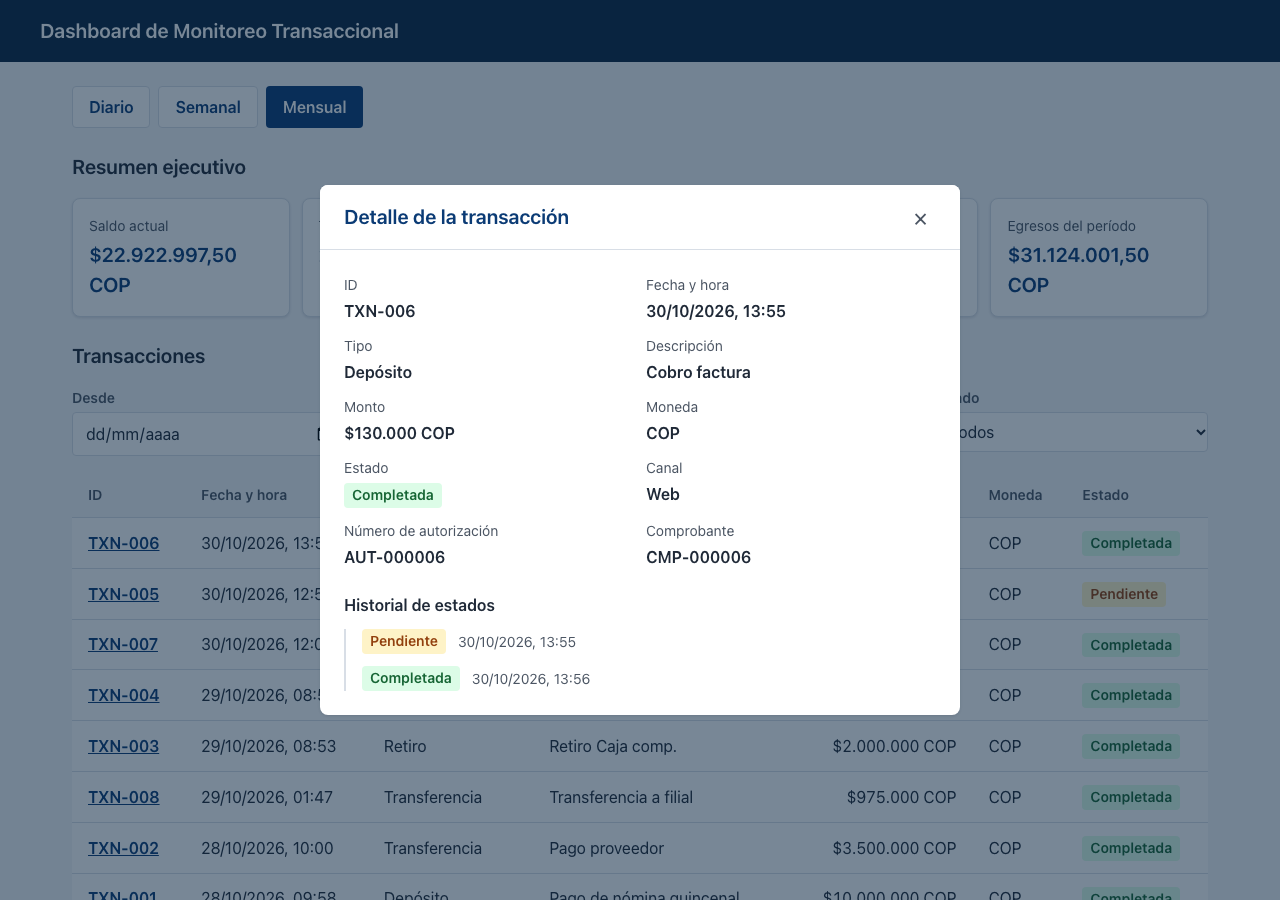
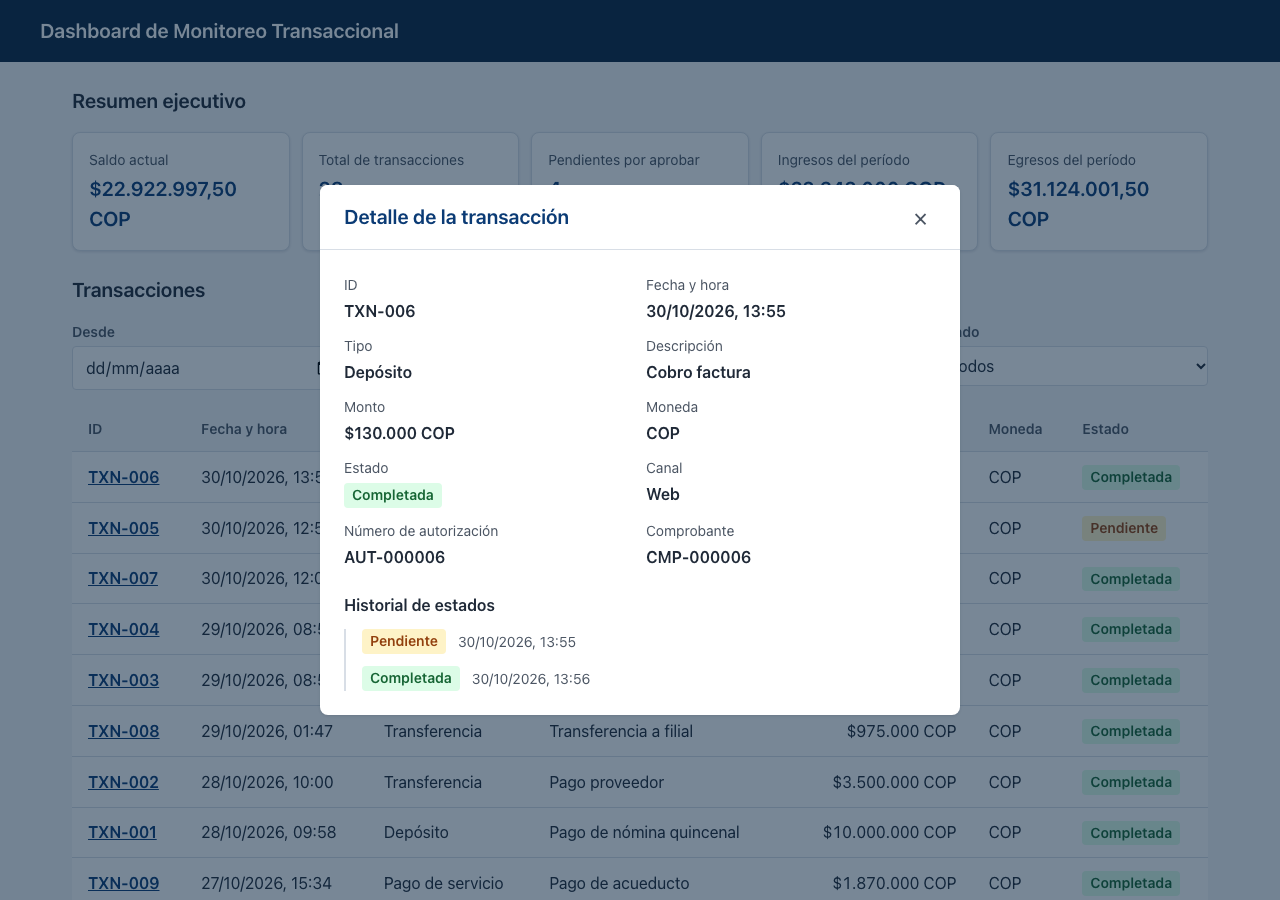
period selector deleted

diff --git a/src/pages/DashboardPage/DashboardPage.test.tsx b/src/pages/DashboardPage/DashboardPage.test.tsx
@@ -8,7 +8,7 @@ import { ERROR_MESSAGES } from '../../shared/errors.ts'
 import { renderWithProviders } from '../../test/renderWithProviders.tsx'
 import type { TransactionDto, TransactionListResponseDto } from '../../types/api.ts'
 
-// Con NOW fijo, el mes tiene 23 transacciones (2 páginas), la semana 9 y el día 3.
+// Con NOW fijo, el mes tiene 23 transacciones (2 páginas).
 const NOW = new Date('2026-07-23T14:00:00-05:00')
 
 const transactionsRegion = () => screen.getByRole('region', { name: 'Transacciones' })
@@ -39,7 +39,6 @@ describe('DashboardPage (integración)', () => {
     renderWithProviders('/')
 
     // Assert
-    expect(screen.getByRole('button', { name: 'Mensual' })).toHaveAttribute('aria-pressed', 'true')
     expect(await screen.findByText('Saldo actual')).toBeInTheDocument()
     await waitForRows(20)
     expect(screen.getByRole('navigation', { name: 'Paginación' })).toBeInTheDocument()
@@ -68,19 +67,40 @@ describe('DashboardPage (integración)', () => {
     expect(router.state.location.search).toBe('?page=2')
   })
 
-  it('al cambiar el período recarga resumen y listado y vuelve a la primera página', async () => {
+  it('pide el resumen y el listado del período mensual', async () => {
     // Arrange
-    const { router, user } = renderWithProviders('/?page=2')
-    await waitForRows(3)
+    const requestedUrls: URL[] = []
+    const onRequest = ({ request }: { request: Request }) => {
+      requestedUrls.push(new URL(request.url))
+    }
+    server.events.on('request:start', onRequest)
 
     // Act
-    await user.click(screen.getByRole('button', { name: 'Semanal' }))
+    renderWithProviders('/')
+    await waitForRows(20)
+    server.events.removeListener('request:start', onRequest)
 
     // Assert
-    await waitForRows(9)
-    expect(router.state.location.search).toBe('')
-    expect(screen.getByRole('button', { name: 'Semanal' })).toHaveAttribute('aria-pressed', 'true')
-    expect(screen.queryByRole('navigation', { name: 'Paginación' })).not.toBeInTheDocument()
+    const periodsByPath = requestedUrls.map((url) => [url.pathname, url.searchParams.get('period')])
+    expect(periodsByPath).toEqual(
+      expect.arrayContaining([
+        ['/api/v1/dashboard/summary', 'monthly'],
+        ['/api/v1/dashboard/transaction/list', 'monthly'],
+      ]),
+    )
+    expect(periodsByPath.every(([, period]) => period === 'monthly')).toBe(true)
+  })
+
+  it('no muestra un selector de período', async () => {
+    // Arrange / Act
+    renderWithProviders('/')
+    await waitForRows(20)
+
+    // Assert
+    expect(screen.queryByRole('group', { name: 'Período' })).not.toBeInTheDocument()
+    for (const name of ['Diario', 'Semanal', 'Mensual']) {
+      expect(screen.queryByRole('button', { name })).not.toBeInTheDocument()
+    }
   })
 
   it('combina los filtros (AND) y vuelve a la primera página', async () => {
@@ -137,9 +157,8 @@ describe('DashboardPage (integración)', () => {
     await waitForRows(20)
 
     // Act
-    await user.click(screen.getByRole('button', { name: 'Diario' }))
-    await waitForRows(3)
     await user.selectOptions(screen.getByRole('combobox', { name: 'Tipo' }), 'Retiro')
+    await user.selectOptions(screen.getByRole('combobox', { name: 'Estado' }), 'Devuelta')
 
     // Assert
     expect(await screen.findByText('Ninguna transacción coincide con los filtros')).toBeInTheDocument()
@@ -196,7 +215,7 @@ describe('DashboardPage (integración)', () => {
     expect(screen.getByRole('region', { name: 'Resumen ejecutivo' })).toBeInTheDocument()
   })
 
-  describe('con resultados de varias páginas en cualquier período', () => {
+  describe('con resultados de varias páginas', () => {
     const manyTransactions: TransactionDto[] = Array.from({ length: 45 }, (_, index) => ({
       id: `TXN-${String(index + 100)}`,
       dateTime: new Date(NOW.getTime() - (index + 1) * 60_000).toISOString(),
@@ -213,19 +232,6 @@ describe('DashboardPage (integración)', () => {
           HttpResponse.json<TransactionListResponseDto>({ previousBalance: 0, items: manyTransactions }),
         ),
       )
-    })
-
-    it('cambiar el período reinicia la página aunque la página actual siga existiendo', async () => {
-      // Arrange
-      const { router, user } = renderWithProviders('/?page=2')
-      await waitFor(() => expect(rowIds()[0]).toBe('TXN-120'))
-
-      // Act
-      await user.click(screen.getByRole('button', { name: 'Semanal' }))
-
-      // Assert
-      await waitFor(() => expect(router.state.location.search).toBe(''))
-      await waitFor(() => expect(rowIds()[0]).toBe('TXN-100'))
     })
 
     it('cambiar un filtro reinicia la página aunque la página actual siga existiendo', async () => {

diff --git a/src/pages/DashboardPage/DashboardPage.tsx b/src/pages/DashboardPage/DashboardPage.tsx
@@ -3,7 +3,6 @@ import { Outlet } from 'react-router'
 import { ErrorState } from '../../components/ErrorState/ErrorState.tsx'
 import { LoadingState } from '../../components/LoadingState/LoadingState.tsx'
 import { Pagination } from '../../components/Pagination/Pagination.tsx'
-import { PeriodSelector } from '../../features/summary/components/PeriodSelector/PeriodSelector.tsx'
 import { SummaryPanel } from '../../features/summary/components/SummaryPanel/SummaryPanel.tsx'
 import { TransactionFilters } from '../../features/transactions/components/TransactionFilters/TransactionFilters.tsx'
 import { TransactionTable } from '../../features/transactions/components/TransactionTable/TransactionTable.tsx'
@@ -13,13 +12,12 @@ import { usePageParam } from '../../hooks/usePageParam.ts'
 import type { Period, TransactionFilters as Filters } from '../../types/domain.ts'
 import styles from './DashboardPage.module.scss'
 
-const DEFAULT_PERIOD: Period = 'monthly'
+const PERIOD: Period = 'monthly'
 
 export const DashboardPage = () => {
-  const [period, setPeriod] = useState<Period>(DEFAULT_PERIOD)
   const [filters, setFilters] = useState<Filters>({})
   const { page, setPage } = usePageParam()
-  const { data, status, error, retry } = useTransactions(period)
+  const { data, status, error, retry } = useTransactions(PERIOD)
   const { items, currentPage, totalPages, emptyReason } = useVisibleTransactions(filters, page)
   const listTitleId = useId()
 
@@ -27,11 +25,6 @@ export const DashboardPage = () => {
   useEffect(() => {
     if (status === 'succeeded' && currentPage !== page) setPage(currentPage, { replace: true })
   }, [status, currentPage, page, setPage])
-
-  const changePeriod = (nextPeriod: Period) => {
-    setPeriod(nextPeriod)
-    setPage(1)
-  }
 
   const changeFilters = (nextFilters: Filters) => {
     setFilters(nextFilters)
@@ -52,9 +45,7 @@ export const DashboardPage = () => {
 
   return (
     <div className={styles.dashboard}>
-      <PeriodSelector value={period} onChange={changePeriod} />
-
-      <SummaryPanel period={period} />
+      <SummaryPanel period={PERIOD} />
 
       <section className={styles['dashboard__transactions']} aria-labelledby={listTitleId}>
         <h2 id={listTitleId} className={styles['dashboard__title']}>

diff --git a/src/shared/labels.ts b/src/shared/labels.ts
@@ -1,9 +1,4 @@
-import type {
-  Channel,
-  Period,
-  TransactionStatus,
-  TransactionType,
-} from '../types/domain.ts'
+import type { Channel, TransactionStatus, TransactionType } from '../types/domain.ts'
 
 // DP-7: la API usa códigos en inglés; la UI los muestra en español.
 
@@ -26,10 +21,4 @@ export const CHANNEL_LABELS: Record<Channel, string> = {
   WEB: 'Web',
   POINT_OF_SALE: 'Punto de Venta',
   BANK_TRANSFER: 'Transferencia bancaria',
-}
-
-export const PERIOD_LABELS: Record<Period, string> = {
-  daily: 'Diario',
-  weekly: 'Semanal',
-  monthly: 'Mensual',
 }

diff --git a/README.md b/README.md
@@ -4,7 +4,7 @@ Aplicación web para que los clientes empresariales de una plataforma de banca e
 analicen sus movimientos financieros**: resumen ejecutivo del período, listado de transacciones con
 filtros y paginación, y detalle completo de cada transacción con su historial de estados.
 
-Construida con **React 19 + TypeScript estricto**, estado global con **Context API + Reducers**, consumo
+Construida con **React 19 + TypeScript**, estado global con **Context API + Reducers**, consumo
 de API REST con **Axios** y una API simulada con **MSW**, por lo que se ejecuta **sin ningún backend ni
 dependencia externa**.
 
@@ -42,7 +42,7 @@ dependencia externa**.
 
 | Requerimiento | Descripción |
 |---|---|
-| **RF-01 · Resumen ejecutivo** | Saldo actual, total de transacciones, pendientes por aprobar, ingresos y egresos del período. Período seleccionable: **Diario / Semanal / Mensual** |
+| **RF-01 · Resumen ejecutivo** | Saldo actual, total de transacciones, pendientes por aprobar, ingresos y egresos del período. Período fijo: **mensual** (sin selector) |
 | **RF-02 · Listado con filtros** | Tabla con ID, fecha y hora, tipo, descripción, monto, moneda y estado. Filtros combinables (AND) por **rango de fechas**, **tipo** y **estado**. Paginación de **20 registros** por página |
 | **RF-03 · Detalle de transacción** | Modal con todos los campos, canal, número de autorización, comprobante e **historial de cambios de estado** |
 
@@ -170,9 +170,9 @@ VITE_USE_MOCKS=false VITE_API_BASE_URL=https://api.ejemplo.com/v1 yarn dev
 
 | Métrica | Valor |
 |---|---|
-| Archivos de prueba | **41** |
-| Pruebas | **314** |
-| Cobertura total | 98,1 % líneas · 95,3 % sentencias · 90,9 % ramas · 98,8 % funciones |
+| Archivos de prueba | **40** |
+| Pruebas | **311** |
+| Cobertura total | 98,1 % líneas · 94,7 % sentencias · 89,6 % ramas · 98,8 % funciones |
 | Cobertura con umbral (≥ 80 %) | `domain/` 100 % · `utils/` 100 % · `services/` 100 % líneas |
 
 ### Cómo ejecutar las pruebas
@@ -311,7 +311,7 @@ src/
 │   └── NotFoundPage/        # 404
 ├── features/
 │   ├── summary/             # RF-01
-│   │   ├── components/      # PeriodSelector, SummaryCard, SummaryPanel
+│   │   ├── components/      # SummaryCard, SummaryPanel
 │   │   └── hooks/           # useSummary
 │   └── transactions/        # RF-02 y RF-03
 │       ├── components/      # TransactionTable, TransactionFilters, TransactionDetailModal,
@@ -359,7 +359,6 @@ docs/
 
 | Componente | Feature | Responsabilidad |
 |---|---|---|
-| `PeriodSelector` | summary | Diario / Semanal / Mensual con `aria-pressed` |
 | `SummaryCard` | summary | Una métrica (`<dt>` / `<dd>`) |
 | `SummaryPanel` | summary | Las 5 métricas de RF-01, tal como llegan del backend, formateadas |
 | `TransactionFilters` | transactions | Desde / Hasta / Tipo / Estado; avisa si el rango está invertido |
@@ -375,7 +374,7 @@ docs/
 | `AppLayout` | Encabezado y área principal |
 | `AppErrorBoundary` / `UnexpectedError` | Captura errores de render (fuera y dentro de las rutas) |
 | `AppProviders` | `TransactionsProvider` |
-| `DashboardPage` | Compone período, resumen, filtros, listado, paginación y el modal (`<Outlet/>`) |
+| `DashboardPage` | Usa el período fijo mensual y compone resumen, filtros, listado, paginación y el modal (`<Outlet/>`) |
 | `TransactionDetailRoute` | Ruta hija: lee `:transactionId` y cierra volviendo atrás o al dashboard conservando `?page` |
 | `NotFoundPage` | Página 404 con enlace al dashboard |
 
@@ -388,12 +387,12 @@ docs/
 | **Global** (transacciones del período) | Context API + `useReducer`, contextos de **estado** y **dispatch** separados | `TransactionsContext` |
 | Resumen y detalle (una sola vista) | `useReducer` local dentro de su hook (DP-15) | `useSummary`, `useTransactionDetail` |
 | Paginación | Query param `?page` | `usePageParam` |
-| Período y filtros | `useState` en la página / formulario | `DashboardPage`, `TransactionFilters` |
+| Filtros | `useState` en la página / formulario | `DashboardPage`, `TransactionFilters` |
 | Modal de detalle | Ruta hija de React Router | `TransactionDetailRoute` |
 
 | Hook | Rol |
 |---|---|
-| `useTransactions(period)` | Carga el listado en el contexto global; cancela la petición anterior al cambiar el período; `retry()` |
+| `useTransactions(period)` | Carga el listado en el contexto global; cancela la petición anterior si cambia el período o se desmonta; `retry()` |
 | `useTransactionsState()` / `useTransactionsDispatch()` | Leen el contexto; error descriptivo si se usan fuera del Provider |
 | `useVisibleTransactions(filters, page)` | **Selector**: filtra (RN-03) → pagina, devuelve la página ajustada y el motivo de lista vacía |
 | `useSummary(period)` | Carga el resumen en estado local, con cancelación y `retry()` |
@@ -417,9 +416,9 @@ El proyecto usa **React Compiler**, por lo que no hay `useMemo`/`useCallback` ma
 *                               → NotFoundPage
 ```
 
-- **Solo `page` va en la URL** (DP-2); período y filtros son estado local de UI, como indica el SPEC.
+- **Solo `page` va en la URL** (DP-2); los filtros son estado local de UI, como indica el SPEC.
 - `?page=abc`, `0`, `-2`, `1.5` → página 1. La página 1 no se escribe (`/` en vez de `/?page=1`).
-- Cambiar el período o un filtro **reinicia** la paginación.
+- Cambiar un filtro **reinicia** la paginación.
 - Una página fuera de rango (`?page=99`) se **ajusta** a la última con `replace` (sin ensuciar el
   historial), solo después de cargar los datos.
 - El detalle conserva `?page` al abrir y cerrar. Si se llegó desde el listado, cerrar vuelve atrás en el
@@ -575,8 +574,8 @@ y `public/mockServiceWorker.js` (generado con `npx msw init public`).
 
 **Accesibilidad**
 
-- Roles y nombres accesibles: `dialog`, `alert`, `status`, `navigation`, `region`, `group`.
-- `aria-pressed` en el selector de período, `aria-current` en la paginación, `aria-invalid` y
+- Roles y nombres accesibles: `dialog`, `alert`, `status`, `navigation`, `region`.
+- `aria-current` en la paginación, `aria-invalid` y
   `aria-describedby` en el rango de fechas inválido, `aria-busy` durante la carga.
 - El estado se comunica con **texto además de color**.
 - Foco visible con teclado (`:focus-visible`), el modal mueve el foco al abrirse y lo devuelve al cerrarse.
@@ -632,7 +631,7 @@ librerías de fechas (`Intl` + `Date`), de validación (type guards propios), de
 |---|---|---|
 | Context + `useReducer` (sin Redux) | Cumple el SPEC, cero dependencias, reducers puros | Sin DevTools; se mitigan re-renders con contextos separados y React Compiler |
 | Resumen y detalle en estado local | Menos estado global, responsabilidades claras | Si otra vista necesitara el resumen habría que elevarlo |
-| Solo `page` en la URL | URL mínima; período y filtros como estado local (SPEC) | Al recargar se pierden período y filtros |
+| Solo `page` en la URL | URL mínima; filtros como estado local (SPEC) | Al recargar se pierden los filtros |
 | Filtrado y paginación en el cliente | Simple, sin peticiones extra (definido en el SPEC) | El rango de fechas solo recorre el período cargado |
 | Detalle como ruta hija en modal | URL compartible; "atrás" cierra el modal | Algo más de configuración de rutas |
 | MSW como API simulada | Mismos handlers en app y pruebas; sin código de mock en los componentes | Requiere `mockServiceWorker.js` en `public/` |
@@ -644,7 +643,7 @@ librerías de fechas (`Intl` + `Date`), de validación (type guards propios), de
 
 | # | Decisión |
 |---|---|
-| DP-1 | Período por defecto: **mensual** |
+| DP-1 | Período fijo: **mensual** (sin selector) |
 | DP-2 | Solo `page` en la URL |
 | DP-4 / DP-5 | Datos mock relativos a la fecha actual + ~40 generados |
 | DP-6 | Monto inválido: se muestra marcado y no suma al saldo |
@@ -653,7 +652,7 @@ librerías de fechas (`Intl` + `Date`), de validación (type guards propios), de
 | DP-9 | Cobertura mínima del 80 % en dominio, utils y services |
 | DP-10 | Montos como `number` con redondeo a 2 decimales |
 | DP-11 | La semana inicia el **lunes** |
-| DP-12 | "Pendientes por aprobar" del período seleccionado |
+| DP-12 | "Pendientes por aprobar" del período mensual |
 | DP-14 | Mocks activos por defecto también en el build |
 | DP-15 | Estado global solo para transacciones |
 | A1 | El backend entrega todo el resumen, incluido el saldo actual |
@@ -675,24 +674,23 @@ El proyecto se construyó con **Spec-Driven Development**:
 1. [`docs/specs/SPEC.md`](docs/specs/SPEC.md): requerimientos funcionales, reglas de negocio y
    requisitos técnicos, revisados y depurados (alcance, ambigüedades e inconsistencias).
 2. [`docs/design/DESIGN.md`](docs/design/DESIGN.md): diseño técnico aprobado antes de escribir código.
-3. [`docs/tasks/TASKS.md`](docs/tasks/TASKS.md): 33 tareas pequeñas, ordenadas por dependencias, cada
+3. [`docs/tasks/TASKS.md`](docs/tasks/TASKS.md): 34 tareas pequeñas, ordenadas por dependencias, cada
    una con alcance, archivos, pruebas y criterio de aceptación verificable. Cada tarea se implementó,
    verificó (pruebas, tipos, lint, build) y aprobó antes de pasar a la siguiente.
 
 La validación final incluyó el build de producción recorrido en un navegador real (Chrome headless):
-cambio de período, filtros combinados, paginación con recarga, detalle desde la tabla y por URL,
+filtros combinados, paginación con recarga, detalle desde la tabla y por URL,
 ruta inexistente y vista mobile a 375 px, sin errores en consola.
 
 ---
 
 ## 21. Limitaciones conocidas
 
-- **Filtro de fechas local**: solo recorre las transacciones del período cargado (por ejemplo, en
-  "Mensual" no se pueden consultar fechas del mes anterior).
-- **Al recargar** se conservan la página y el detalle abierto, pero el período vuelve a "Mensual" y los
-  filtros se limpian.
+- **Filtro de fechas local**: solo recorre las transacciones del período cargado (por ejemplo, no se
+  pueden consultar fechas del mes anterior).
+- **Al recargar** se conservan la página y el detalle abierto, pero los filtros se limpian.
 - **Datos simulados**: se calculan al cargar la app; si la pestaña queda abierta varios días no avanzan
-  con el reloj. Entre las 00:00 y las 00:05 el período diario puede quedar vacío.
+  con el reloj. Entre las 00:00 y las 00:05 del primer día del mes el listado puede quedar vacío.
 - **Modal**: no atrapa el foco (con Tab se puede llegar al contenido de fondo) ni bloquea el scroll del
   fondo.
 - **Desarrollo**: con `StrictMode` cada petición aparece dos veces en la consola de MSW (la primera se
